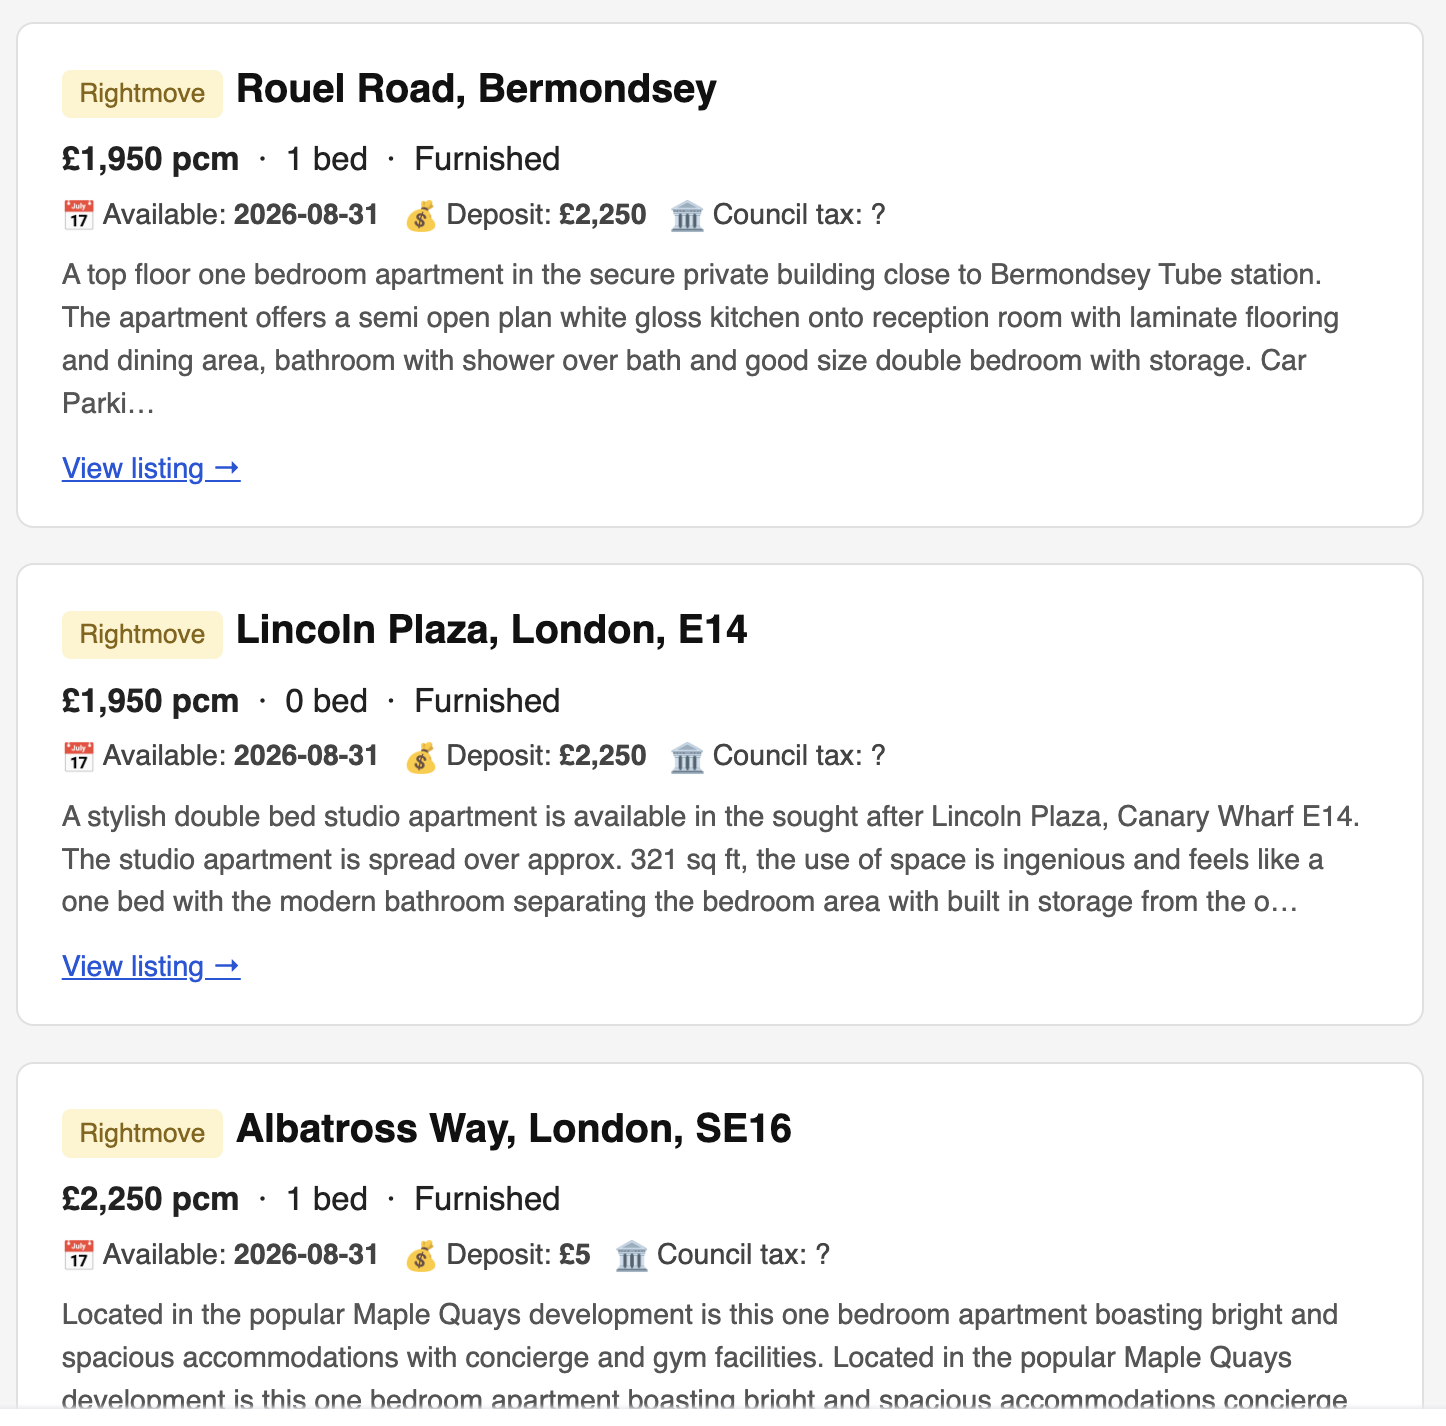
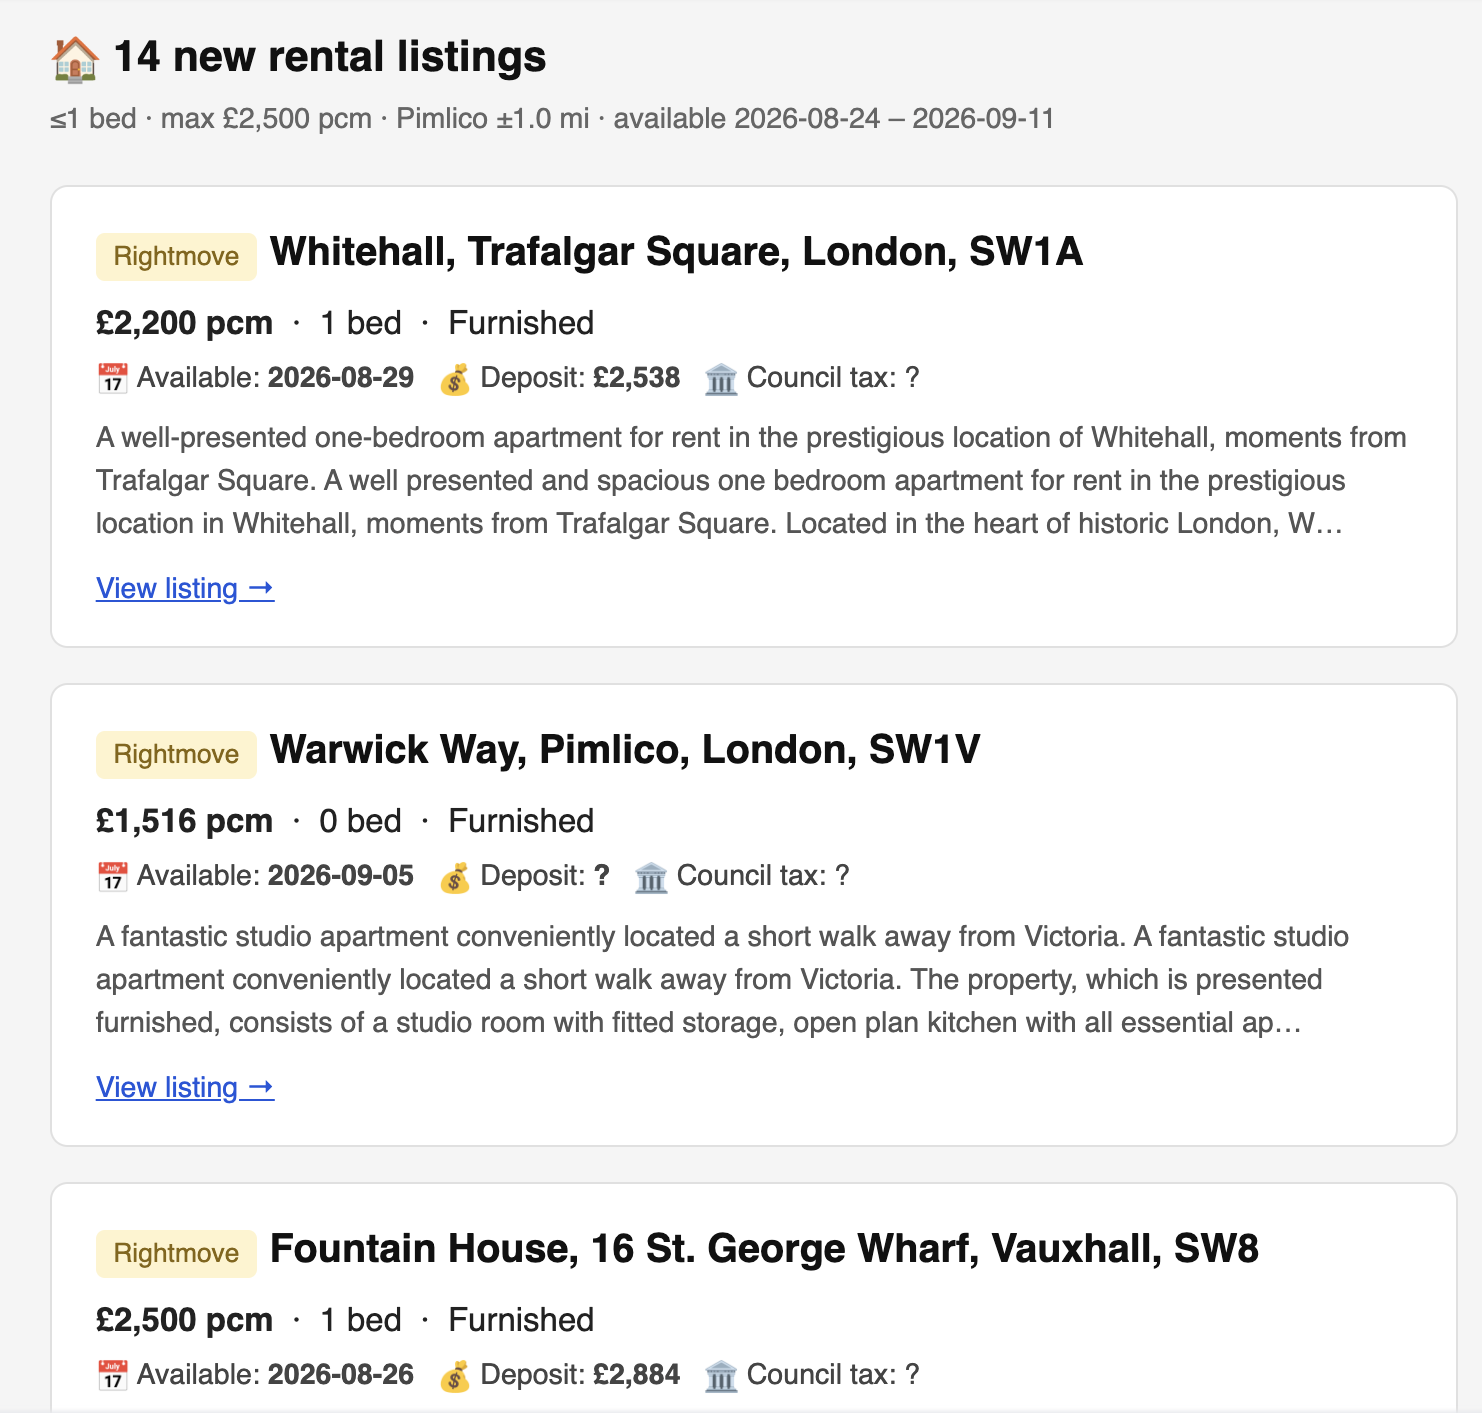
Update demo screenshot, drop unused curl-cffi dep, add launchd plist template
- Replace demo image with a cleaner digest screenshot
- Remove curl-cffi (unused; a TLS-impersonation lib inconsistent with the
  no-circumvention framing) and re-lock
- Provide a real inline launchd plist template instead of referencing
  non-existent setup notes

Changed region(s): [[0.0311, 0.0311, 0.9336, 0.9958]]

diff --git a/README.md b/README.md
@@ -95,7 +95,31 @@ uv run python main.py            # print search URLs (sanity check your filters)
 uv run python run.py             # one full scrape + email run
 ```
 
-**4. Automate it** — a `launchd` LaunchAgent (macOS) runs `run.py` daily and survives sleep/wake, unlike `cron`. See the plist template pattern in the setup notes, drop it in `~/Library/LaunchAgents/`, then:
+**4. Automate it** — a `launchd` LaunchAgent (macOS) runs `run.py` daily and survives sleep/wake, unlike `cron`. Save the template below to `~/Library/LaunchAgents/com.yourname.rent-scraper.plist`, editing the two `/absolute/path/to` values and the `uv` path (`which uv`) for your machine:
+
+```xml
+<?xml version="1.0" encoding="UTF-8"?>
+<!DOCTYPE plist PUBLIC "-//Apple//DTD PLIST 1.0//EN" "http://www.apple.com/DTDs/PropertyList-1.0.dtd">
+<plist version="1.0">
+<dict>
+  <key>Label</key><string>com.yourname.rent-scraper</string>
+  <key>ProgramArguments</key>
+  <array>
+    <string>/opt/homebrew/bin/uv</string>
+    <string>run</string>
+    <string>python</string>
+    <string>run.py</string>
+  </array>
+  <key>WorkingDirectory</key><string>/absolute/path/to/rent-scraper</string>
+  <key>StartCalendarInterval</key>
+  <dict><key>Hour</key><integer>7</integer><key>Minute</key><integer>0</integer></dict>
+  <key>StandardOutPath</key><string>/absolute/path/to/rent-scraper/data/cron.log</string>
+  <key>StandardErrorPath</key><string>/absolute/path/to/rent-scraper/data/cron.log</string>
+</dict>
+</plist>
+```
+
+Then load it:
 
 ```bash
 launchctl bootstrap gui/$(id -u) ~/Library/LaunchAgents/com.yourname.rent-scraper.plist